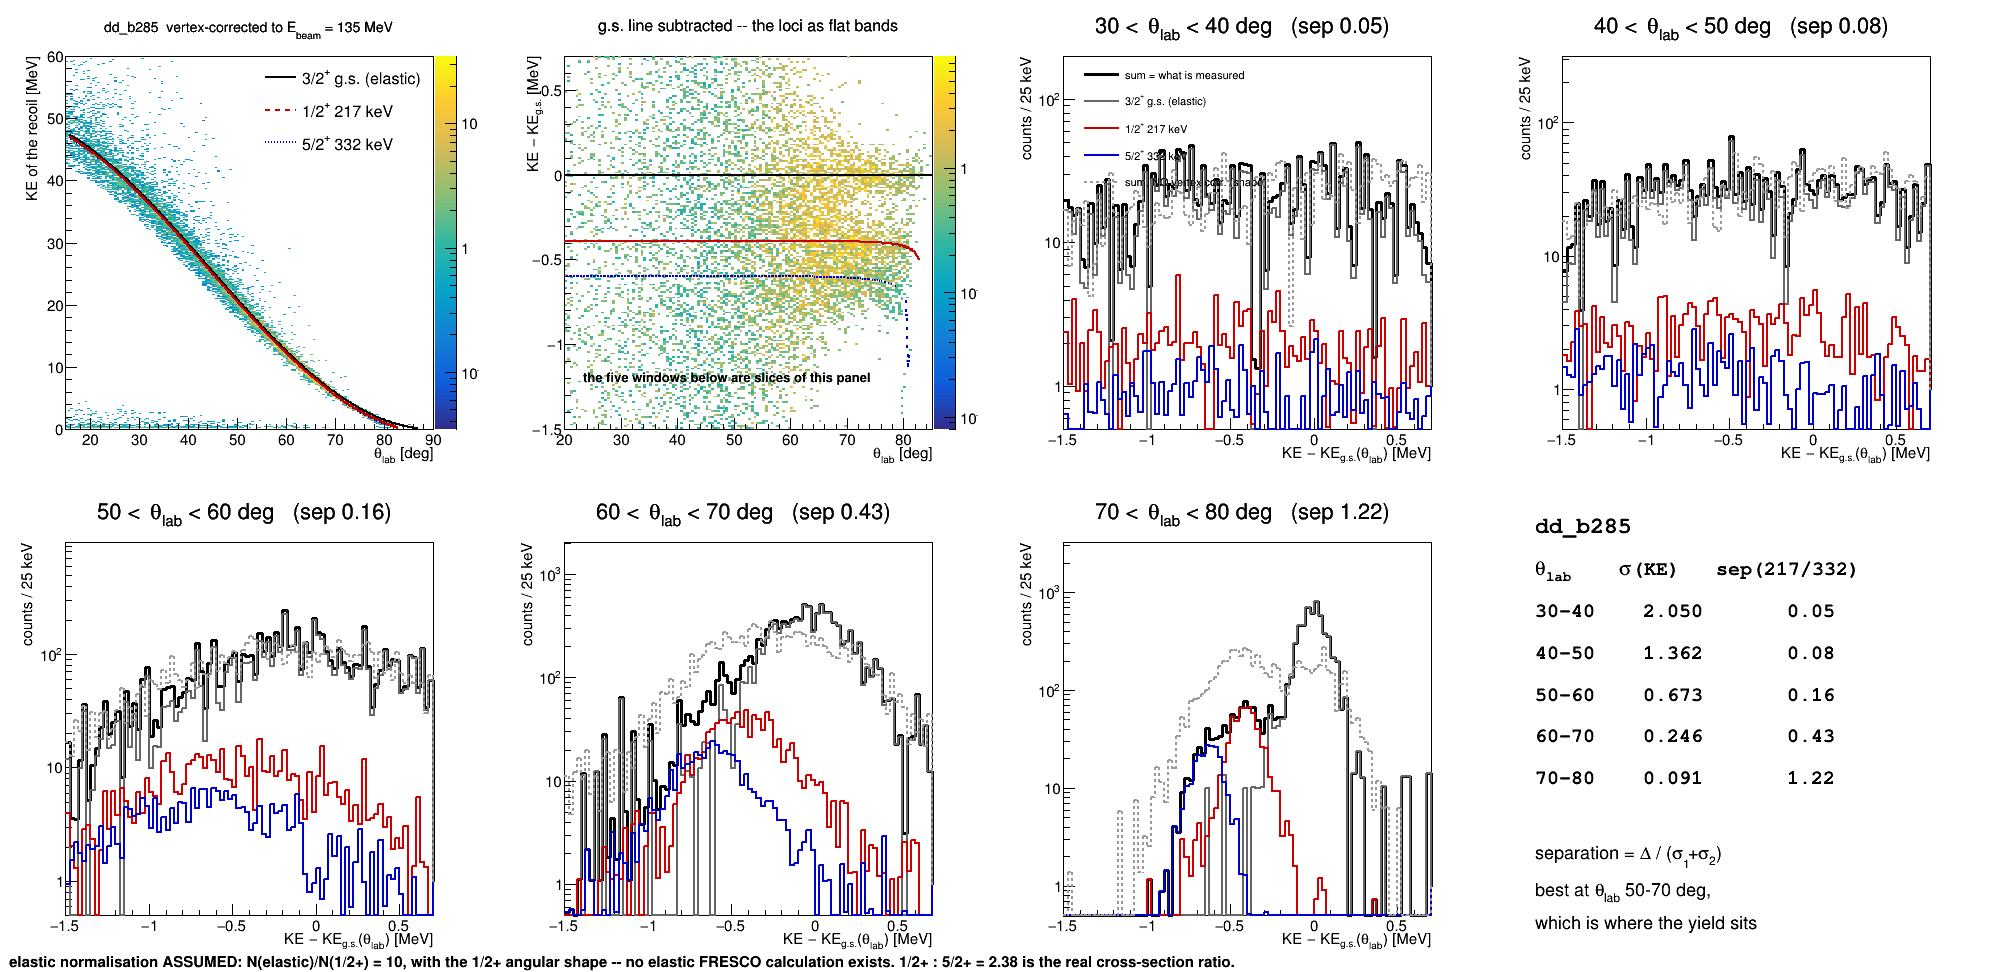
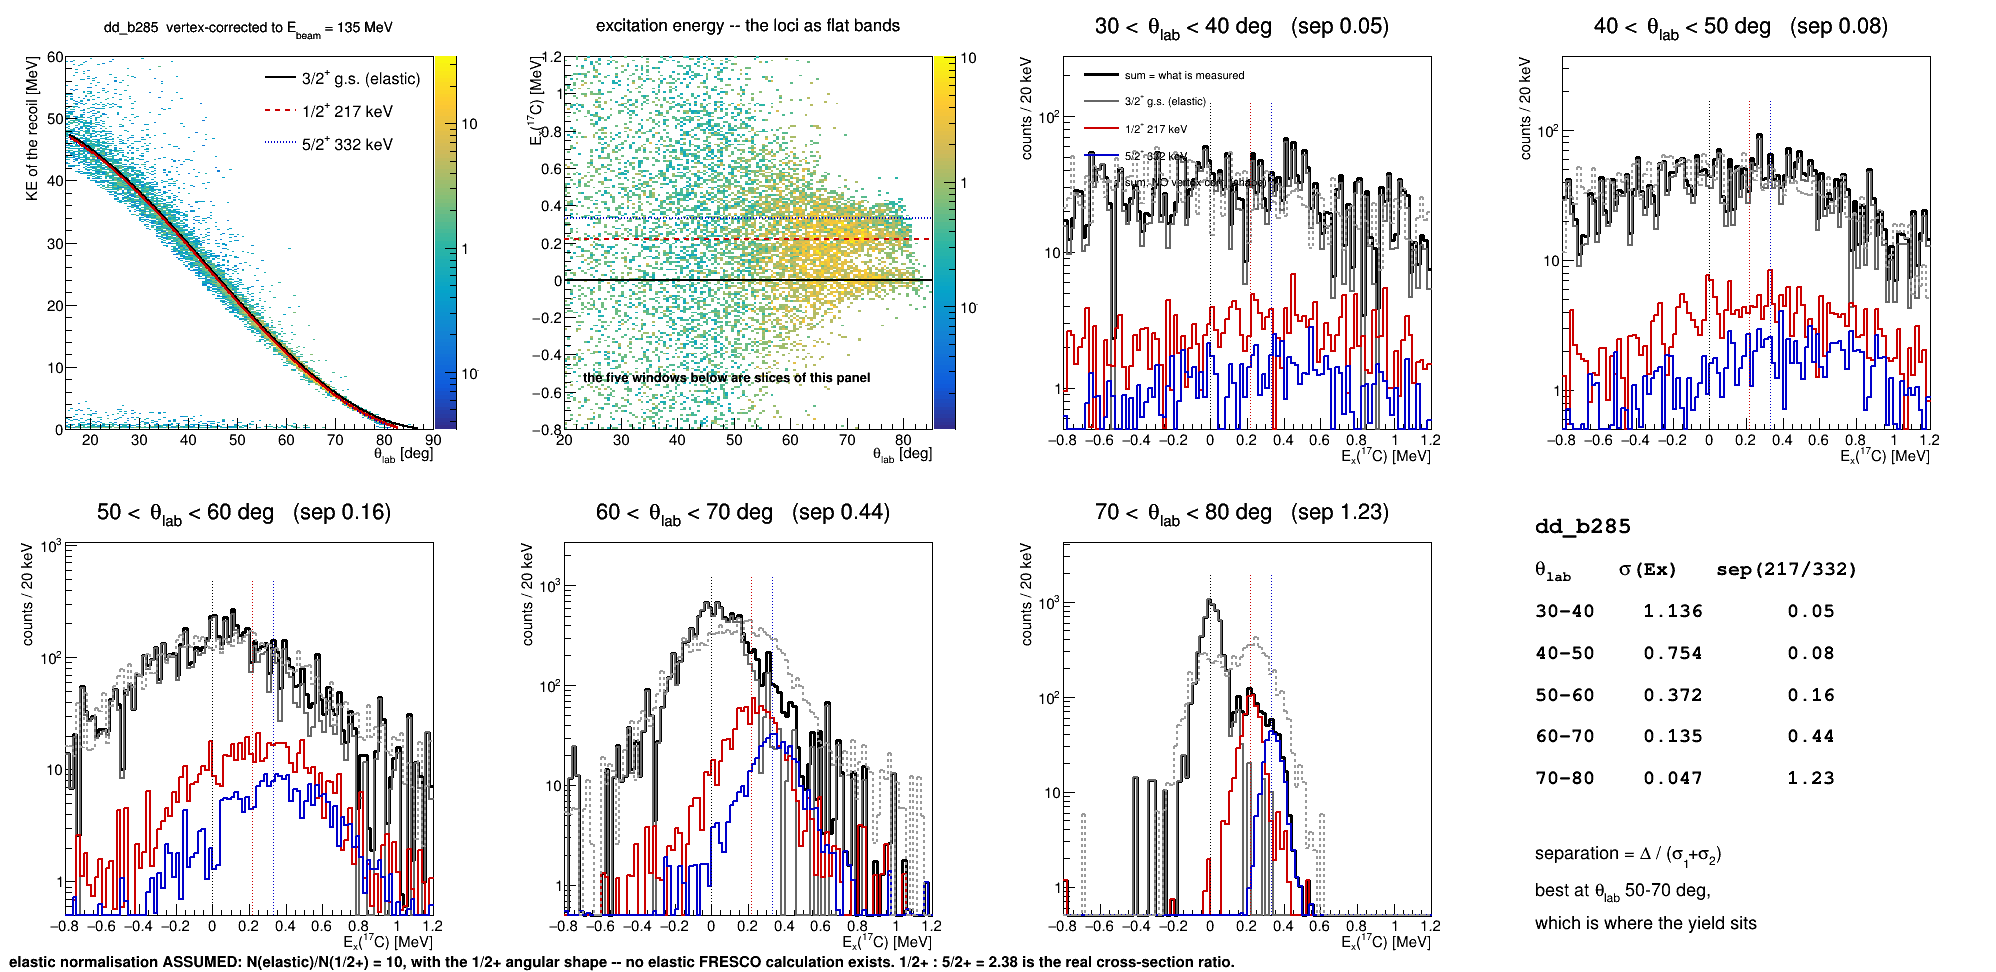
Kinematic-line projections in excitation energy, plus a standalone locus map
The window projections were in KE minus the g.s. line. Excitation energy is the
right variable: the peaks land on 0, 0.217 and 0.332 MeV and read off directly,
the two channels become comparable (the same 115 keV gap is 221-269 keV of
proton recoil but 207-223 keV of deuteron recoil, so a KE residual silently
rescales between them), and the widths are then the same quantity as the tables
in RESULTS.md rather than a proxy.

Also emits plots/kinemap_<cfg>.png -- the locus map full size. At a sixth of a
multi-panel canvas the band and the three curves through it cannot both be
resolved.

Corrects a number: the 70-80 deg (p,p') window was reported at separation 0.30,
a collapse. That came from a KE-residual width that is not a proper residual for
the excited levels. In excitation energy it is 0.88 -- degraded, not lost. The
qualitative point stands, the magnitude did not.

The deuteron channel reaches sigma(Ex) = 0.047 MeV at 70-80 deg, identical to
the proton's best, so it is not intrinsically worse -- only worse everywhere
except the backward window, where its recoil finally becomes slow enough to
track well.

Claude-Session: https://claude.ai/code/session_01DzgRJAuwZNftYgDYr5EsXQ

diff --git a/macro/Simulation/ATTPC/17C_inelastic/kine_lines_C17.C b/macro/Simulation/ATTPC/17C_inelastic/kine_lines_C17.C
@@ -16,7 +16,14 @@
 /// implies at E_beam(z), then ask what KE that same excitation would give at E0 for the same
 /// theta_lab. The vertex spread collapses and the lines appear.
 ///
-///     KE_corr = KE such that  Ex(E0, theta_lab, KE_corr) = Ex(E_beam(z_reco), theta_lab, KE_reco)
+///     Ex_corr = Ex(E_beam(z_reco), theta_lab, KE_reco)
+///
+/// The projection panels are in EXCITATION ENERGY, not in a KE residual against the g.s. line. Ex
+/// is what the levels actually are -- the peaks land on 0, 0.217 and 0.332 MeV and can be read off
+/// -- and it is the only variable in which the two channels are comparable: the same 115 keV gap is
+/// 221 keV of proton recoil but 207 keV of deuteron recoil, so a KE residual silently rescales
+/// between them. It is also the variable inel_summary_C17.C and decompose_C17.C work in, so the
+/// widths quoted here are the same numbers as the tables in RESULTS.md rather than a proxy.
 ///
 /// This is not a cosmetic re-plot: it is exactly the analysis step the proposal needs to adopt,
 /// shown in the variable an experimenter looks at first.
@@ -37,6 +44,7 @@
 #include "TLegend.h"
 #include "TMath.h"
 #include "TStyle.h"
+#include "TLine.h"
 #include "TSystem.h"
 #include "TTree.h"
 
@@ -147,7 +155,7 @@ double klInterp(const std::vector<double> &th, const std::vector<double> &xs, do
 ///           and the panels are the point of the figure.
 void kine_lines_C17(TString root = "/media/yassid/Seagate Hub/ATTPC/C17_inel", TString cfgTag = "pp_b285",
                     TString frescoDir = "./fresco/", Double_t chi2Cut = 5.0, TString outDir = "./plots/",
-                    Double_t R = 10.0, Double_t resLo = -1.5, Double_t resHi = 0.7)
+                    Double_t R = 10.0, Double_t exLo = -0.8, Double_t exHi = 1.2)
 {
    gStyle->SetOptStat(0);
    gStyle->SetPalette(kBird);
@@ -204,20 +212,20 @@ void kine_lines_C17(TString root = "/media/yassid/Seagate Hub/ATTPC/C17_inel", T
    };
 
    // ---- histograms -----------------------------------------------------------------------------
-   const int nB = (int)std::lround((resHi - resLo) / 0.025); // 25 keV bins
+   const int nB = (int)std::lround((exHi - exLo) / 0.020); // 20 keV bins
    TH2D *hCor = new TH2D("hCor", "", 150, 15, 90, 400, 0, keMax);
-   TH2D *hRes = new TH2D("hRes", "", 130, 20, 85, 200, resLo, resHi);
+   TH2D *hRes = new TH2D("hRes", "", 130, 20, 85, 200, exLo, exHi);
    TH1D *hW[nW][nL];
    TH1D *hWraw[nW]; // the same window with NO vertex correction, for the contrast
    std::vector<double> resW[nW][nL];
    for (int w = 0; w < nW; ++w) {
-      hWraw[w] = new TH1D(Form("hWraw%d", w), "", nB, resLo, resHi);
+      hWraw[w] = new TH1D(Form("hWraw%d", w), "", nB, exLo, exHi);
       hWraw[w]->SetDirectory(nullptr);
       hWraw[w]->SetLineColor(kGray + 1);
       hWraw[w]->SetLineStyle(2);
       hWraw[w]->SetLineWidth(2);
       for (int l = 0; l < nL; ++l) {
-         hW[w][l] = new TH1D(Form("hW%d_%d", w, l), "", nB, resLo, resHi);
+         hW[w][l] = new TH1D(Form("hW%d_%d", w, l), "", nB, exLo, exHi);
          hW[w][l]->SetDirectory(nullptr);
          hW[w][l]->SetLineColor(col[l]);
          hW[w][l]->SetLineWidth(2);
@@ -243,7 +251,7 @@ void kine_lines_C17(TString root = "/media/yassid/Seagate Hub/ATTPC/C17_inel", T
          printf("\033[1;31m  no res tree in %s\033[0m\n", found.Data());
          return;
       }
-      double thT, thR, keT, keR, cmT, c2n, zT, zR;
+      double thT, thR, keT, keR, cmT, c2n, zT, zR, exR;
       t->SetBranchAddress("thTrue", &thT);
       t->SetBranchAddress("thReco", &thR);
       t->SetBranchAddress("keTrue", &keT);
@@ -252,6 +260,9 @@ void kine_lines_C17(TString root = "/media/yassid/Seagate Hub/ATTPC/C17_inel", T
       t->SetBranchAddress("chi2ndf", &c2n);
       t->SetBranchAddress("zTrue", &zT);
       t->SetBranchAddress("zReco", &zR);
+      // exReco is the CONSTANT-Ebeam reconstruction the pipeline already stores -- exactly the
+      // "no vertex correction" comparison, with no need to recompute it.
+      t->SetBranchAddress("exReco", &exR);
 
       if (!haveEbz) {
          TGraph g;
@@ -303,12 +314,12 @@ void kine_lines_C17(TString root = "/media/yassid/Seagate Hub/ATTPC/C17_inel", T
          const double kgs = keGSat(thR);
          if (kgs <= 0)
             continue;
-         hRes->Fill(thR, keCorr - kgs, w);
+         hRes->Fill(thR, exHere, w);
          for (int wi = 0; wi < nW; ++wi)
             if (thR >= wLo[wi] && thR < wHi[wi]) {
-               hW[wi][l]->Fill(keCorr - kgs, w);
-               hWraw[wi]->Fill(keR - kgs, w);
-               resW[wi][l].push_back(keCorr - kgs);
+               hW[wi][l]->Fill(exHere, w);
+               hWraw[wi]->Fill(exR, w);
+               resW[wi][l].push_back(exHere - ExGen[l]);
             }
          ++nUsed;
       }
@@ -353,9 +364,8 @@ void kine_lines_C17(TString root = "/media/yassid/Seagate Hub/ATTPC/C17_inel", T
       return (v[(size_t)(0.75 * v.size())] - v[(size_t)(0.25 * v.size())]) / 1.349;
    };
 
-   printf("\n  %-12s %10s %10s %10s %12s %12s\n", "theta_lab", "KE(gs)", "gap 0-217", "gap 217-332", "sigma(KE)",
-          "separation");
-   printf("  %-12s %10s %10s %10s %12s %12s\n", "[deg]", "[MeV]", "[keV]", "[keV]", "[MeV]", "217/332");
+   printf("\n  %-12s %10s %12s %12s %12s\n", "theta_lab", "KE(gs)", "gap in KE", "sigma(Ex)", "separation");
+   printf("  %-12s %10s %12s %12s %12s\n", "[deg]", "[MeV]", "[keV]", "[MeV]", "217/332");
    double sepW[nW];
    for (int w = 0; w < nW; ++w) {
       const double th = 0.5 * (wLo[w] + wHi[w]);
@@ -363,9 +373,10 @@ void kine_lines_C17(TString root = "/media/yassid/Seagate Hub/ATTPC/C17_inel", T
       const double k1 = klKE(m1, mL, mL, m4, E0, th, ExGen[1], keMax);
       const double k2 = klKE(m1, mL, mL, m4, E0, th, ExGen[2], keMax);
       const double s1 = iqrSigma(resW[w][1]), s2 = iqrSigma(resW[w][2]);
-      sepW[w] = (s1 > 0 && s2 > 0) ? (k1 - k2) / (s1 + s2) : -1;
-      printf("  %5.0f-%-6.0f %10.3f %10.0f %10.0f %12.3f %12.2f\n", wLo[w], wHi[w], k0, (k0 - k1) * 1000,
-             (k1 - k2) * 1000, s1, sepW[w]);
+      // separation in EXCITATION ENERGY: the level gap is 0.115 MeV by definition, so this is
+      // directly comparable with the tables in inel_summary_C17.C.
+      sepW[w] = (s1 > 0 && s2 > 0) ? (ExGen[2] - ExGen[1]) / (s1 + s2) : -1;
+      printf("  %5.0f-%-6.0f %10.3f %12.0f %12.3f %12.2f\n", wLo[w], wHi[w], k0, (k1 - k2) * 1000, s1, sepW[w]);
    }
 
    // ---- figure ------------------------------------------------------------------------------------
@@ -395,13 +406,18 @@ void kine_lines_C17(TString root = "/media/yassid/Seagate Hub/ATTPC/C17_inel", T
 
    cv->cd(2);
    gPad->SetLogz();
-   hRes->SetTitle("g.s. line subtracted -- the loci as flat bands;#theta_{lab} [deg];"
-                  "KE #minus KE_{g.s.} [MeV]");
+   hRes->SetTitle("excitation energy -- the loci as flat bands;#theta_{lab} [deg];E_{x}(^{17}C) [MeV]");
    hRes->GetYaxis()->SetTitleOffset(1.15);
    hRes->Draw("COLZ");
-   for (int l = 0; l < nL; ++l)
-      gBand[l]->Draw("L SAME");
    {
+      // in Ex the bands are simply the level energies
+      for (int l = 0; l < nL; ++l) {
+         TLine *ln = new TLine(20, ExGen[l], 85, ExGen[l]);
+         ln->SetLineColor(l == 0 ? kBlack : col[l]);
+         ln->SetLineWidth(2);
+         ln->SetLineStyle(l == 0 ? 1 : (l == 1 ? 7 : 3));
+         ln->Draw();
+      }
       TLatex tx;
       tx.SetNDC();
       tx.SetTextSize(0.030);
@@ -422,8 +438,7 @@ void kine_lines_C17(TString root = "/media/yassid/Seagate Hub/ATTPC/C17_inel", T
          sum->Add(hW[w][l]);
       sum->SetLineColor(kBlack);
       sum->SetLineWidth(3);
-      sum->SetTitle(Form("%.0f < #theta_{lab} < %.0f deg   (sep %.2f);"
-                         "KE #minus KE_{g.s.}(#theta_{lab}) [MeV];counts / 25 keV",
+      sum->SetTitle(Form("%.0f < #theta_{lab} < %.0f deg   (sep %.2f);E_{x}(^{17}C) [MeV];counts / 20 keV",
                          wLo[w], wHi[w], sepW[w]));
       sum->SetMaximum(4.0 * sum->GetMaximum());
       sum->SetMinimum(0.5);
@@ -436,6 +451,12 @@ void kine_lines_C17(TString root = "/media/yassid/Seagate Hub/ATTPC/C17_inel", T
          // to show how much wider the spectrum is without the vertex correction.
          hWraw[w]->Scale(sum->Integral() / hWraw[w]->Integral());
          hWraw[w]->Draw("HIST SAME");
+      }
+      for (int l = 0; l < nL; ++l) {
+         TLine *ln = new TLine(ExGen[l], sum->GetMinimum(), ExGen[l], 0.45 * sum->GetMaximum());
+         ln->SetLineColor(l == 0 ? kBlack : col[l]);
+         ln->SetLineStyle(3);
+         ln->Draw();
       }
       if (w == 0) {
          TLegend *lg = new TLegend(0.13, 0.60, 0.55, 0.89);
@@ -456,7 +477,7 @@ void kine_lines_C17(TString root = "/media/yassid/Seagate Hub/ATTPC/C17_inel", T
       tx.SetTextFont(102);
       tx.DrawLatexNDC(0.04, 0.92, Form("%s", cfgTag.Data()));
       tx.SetTextSize(0.048);
-      tx.DrawLatexNDC(0.04, 0.83, "#theta_{lab}    #sigma(KE)   sep(217/332)");
+      tx.DrawLatexNDC(0.04, 0.83, "#theta_{lab}    #sigma(Ex)   sep(217/332)");
       for (int w = 0; w < nW; ++w)
          tx.DrawLatexNDC(0.04, 0.74 - 0.09 * w,
                          Form("%2.0f-%2.0f    %5.3f       %4.2f", wLo[w], wHi[w], iqrSigma(resW[w][1]), sepW[w]));
@@ -480,5 +501,40 @@ void kine_lines_C17(TString root = "/media/yassid/Seagate Hub/ATTPC/C17_inel", T
    }
 
    cv->SaveAs(outDir + "kinelines_" + cfgTag + ".png");
-   printf("\n  wrote %skinelines_%s.png\n\n", outDir.Data(), cfgTag.Data());
+
+   // ---- the locus map on its own, full size -------------------------------------------------
+   // At a sixth of a multi-panel canvas the band and the three curves through it cannot both be
+   // resolved, and this is the panel worth looking at closely.
+   TCanvas *cm = new TCanvas("cvmap", "kinematics", 1200, 900);
+   cm->SetLogz();
+   cm->SetRightMargin(0.13);
+   TH2D *hMap = (TH2D *)hCor->Clone("hMap");
+   hMap->SetTitle(Form("^{17}C%s  vertex-corrected to E_{beam} = %.0f MeV, one day of beam;"
+                       "#theta_{lab} [deg];KE of the recoil [MeV]",
+                       chan == "dd" ? "(d,d')" : "(p,p')", E0));
+   hMap->GetXaxis()->SetRangeUser(15, 88);
+   hMap->Draw("COLZ");
+   for (int l = 0; l < nL; ++l)
+      gLine[l]->Draw("L SAME");
+   {
+      TLegend *lg = new TLegend(0.56, 0.68, 0.86, 0.88);
+      lg->SetBorderSize(0);
+      lg->SetFillStyle(0);
+      for (int l = 0; l < nL; ++l)
+         lg->AddEntry(gLine[l], stName[l], "l");
+      lg->Draw();
+      TLatex tx;
+      tx.SetNDC();
+      tx.SetTextSize(0.026);
+      tx.DrawLatex(0.14, 0.20, Form("%s, B = %s T, 300 torr %s", cfgTag.Data(),
+                                    btag == "b400" ? "4.00" : "2.85", chan == "dd" ? "D_{2}" : "H_{2}"));
+      tx.DrawLatex(0.14, 0.16, "the three curves are 217 and 332 keV apart in E_{x},");
+      tx.DrawLatex(0.14, 0.12, Form("which is ~%.0f keV of recoil energy",
+                                    (klKE(m1, mL, mL, m4, E0, 60, ExGen[1], keMax) -
+                                     klKE(m1, mL, mL, m4, E0, 60, ExGen[2], keMax)) * 1000));
+   }
+   cm->SaveAs(outDir + "kinemap_" + cfgTag + ".png");
+
+   printf("\n  wrote %skinelines_%s.png and %skinemap_%s.png\n\n", outDir.Data(), cfgTag.Data(), outDir.Data(),
+          cfgTag.Data());
 }

diff --git a/macro/Simulation/ATTPC/17C_inelastic/RESULTS.md b/macro/Simulation/ATTPC/17C_inelastic/RESULTS.md
@@ -128,41 +128,52 @@ the cheapest available check that nothing drifted between the two campaigns.
 ## The kinematic lines, window by window
 
 `kine_lines_C17.C` shows the same result in the variable an experimenter looks at first — recoil KE
-against θ_lab. **The three loci are not separable raw**: each event carries the beam energy at its
-own vertex, and the 14.6 MeV lost across the chamber spreads the band by several MeV, an order of
-magnitude more than the level spacing. Rebuilding every event at a common reference beam energy
-collapses that spread and the loci appear as flat bands once the g.s. line is subtracted.
+against θ_lab (`plots/kinemap_*.png` is that map on its own, full size). **The three loci are not
+separable raw**: each event carries the beam energy at its own vertex, and the 14.6 MeV lost across
+the chamber spreads the band by several MeV, an order of magnitude more than the level spacing.
+Rebuilding every event at a common reference beam energy collapses that spread.
 
-The 115 keV level gap is **221–269 keV of recoil energy** for protons (207–223 keV for deuterons),
-nearly constant with angle. What is *not* constant is σ(KE), and that is what decides everything:
+The projections are in **excitation energy**, so the peaks land on 0, 0.217 and 0.332 MeV and can be
+read off directly. That also makes the two channels comparable — the same 115 keV gap is 221–269 keV
+of proton recoil but only 207–223 keV of deuteron recoil, so a KE residual silently rescales between
+them — and it makes these widths the same quantity as the tables above rather than a proxy.
 
-separation Δ/(σ₁+σ₂) of the 1/2⁺ and 5/2⁺, per θ_lab window:
+σ(E_x) [MeV] and, beneath it, the separation Δ/(σ₁+σ₂) of the 1/2⁺ and 5/2⁺, per θ_lab window:
 
 | θ_lab | 30–40 | 40–50 | 50–60 | 60–70 | 70–80 |
 |---|---|---|---|---|---|
-| (p,p') 2.85 T | 0.38 | 0.52 | **1.15** | **1.19** | 0.30 |
-| (p,p') 4.00 T | 0.84 | **1.18** | **1.28** | **1.29** | 0.23 |
-| (d,d') 2.85 T | 0.05 | 0.08 | 0.16 | 0.43 | **1.22** |
-| (d,d') 4.00 T | 0.07 | 0.11 | 0.23 | 0.76 | **1.14** |
+| (p,p') 2.85 T | 0.152 | 0.114 | **0.052** | **0.047** | 0.067 |
+| | 0.38 | 0.52 | **1.15** | **1.20** | 0.88 |
+| (p,p') 4.00 T | 0.065 | **0.050** | **0.047** | **0.044** | 0.073 |
+| | 0.84 | **1.18** | **1.28** | **1.31** | 0.75 |
+| (d,d') 2.85 T | 1.136 | 0.754 | 0.372 | 0.135 | **0.047** |
+| | 0.05 | 0.08 | 0.16 | 0.44 | **1.23** |
+| (d,d') 4.00 T | 0.792 | 0.534 | 0.270 | **0.074** | **0.047** |
+| | 0.07 | 0.11 | 0.23 | **0.76** | **1.21** |
 
 **This refines the angular recommendation made from the integrated numbers.** The usable window is
 narrower and further back than "θ_lab > 60°":
 
-- **(p,p') 2.85 T: 50–70°.** Forward of 50° the resolution collapses; the 70–80° bin is *worse*
-  again (σ(KE) 0.152) because the recoil is under 2 MeV there and the track is too short to fit.
-- **(p,p') 4.00 T: 40–70°** — the field buys the 40–50° bin, which is real added coverage.
-- **(d,d') 2.85 T: 70–80° only.** The 60–70° bin gives 0.43, not the ~1 the integrated
+- **(p,p') 2.85 T: 50–70°**, with 70–80° usable but degraded.
+- **(p,p') 4.00 T: 40–70°** — the field buys the 40–50° bin outright, which is real added coverage.
+- **(d,d') 2.85 T: 70–80° essentially alone.** The 60–70° bin gives 0.44, not the ~1 that a
   θ_lab > 60° cut implied. That is a much tighter window than the proposal's angular coverage
   assumes, and it is the strongest argument for 4 T.
 - **(d,d') 4.00 T: 60–80°**, roughly doubling the deuteron coverage.
 
-Note the 70–80° reversal on (p,p'): every previous statement in this document that resolution
-improves monotonically toward backward angles is wrong at the last bin, where the recoil energy
-falls below what the tracker can use. It matters because θ_lab 70–80° is θ_cm 20–40°, which the
-FRESCO distribution does populate.
+Note that at 70–80° the deuteron reaches σ(E_x) = 0.047 MeV — identical to the proton's best. The
+deuteron channel is not intrinsically worse; it is worse everywhere *except* the backward window,
+because its recoil is twice as energetic and only becomes slow enough to track well at the very
+back.
 
-The figures are `plots/kinelines_*.png`: the corrected locus map, the same with the g.s. line
-subtracted, and the five angular windows on a log axis with the components drawn separately. The
+**Correction to an earlier statement in this document:** the 70–80° (p,p') bin was previously quoted
+as separation 0.30, a collapse. That number came from a KE-residual width that was not a proper
+residual for the excited levels; in excitation energy it is 0.88. Resolution does still stop
+improving at the last bin — the recoil falls below ~2 MeV and the track gets short — but the bin
+remains usable rather than lost.
+
+The figures are `plots/kinelines_*.png`: the locus map, the same in E_x (flat bands at the level
+energies), and the five angular windows on a log axis with the components drawn separately. The
 elastic there is drawn at an **assumed** N_elastic/N_217 = 10 with the 1/2⁺ angular shape — the
 1/2⁺ : 5/2⁺ ratio of 2.38 is real, the elastic normalisation is not, and it is labelled on the
 figure.

diff --git a/macro/Simulation/ATTPC/17C_inelastic/README.md b/macro/Simulation/ATTPC/17C_inelastic/README.md
@@ -121,7 +121,7 @@ this reason.
 | `run_C17inel_campaign.sh` | the 12-sample matrix, in two waves, with a PID-checked driver lock |
 | `inel_summary_C17.C` | σ(Ex), the method floor, the vertex correction, level separation |
 | `decompose_C17.C` | the headline: fixed-position three-component fit at one day of beam |
-| `kine_lines_C17.C` | the reconstructed kinematic lines, raw and vertex-corrected; `plots/kinelines_*.png` |
+| `kine_lines_C17.C` | the reconstructed kinematic lines and per-window E_x spectra; `plots/kinelines_*.png`, `plots/kinemap_*.png` |
 | `fresco/` | the DWBA angular distributions supplied with the proposal |
 
 Reco, genfit, acceptance and Ex resolution reuse the 14C macros unchanged — they already take the
